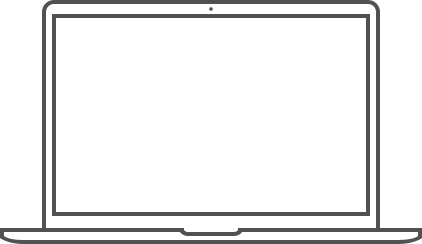
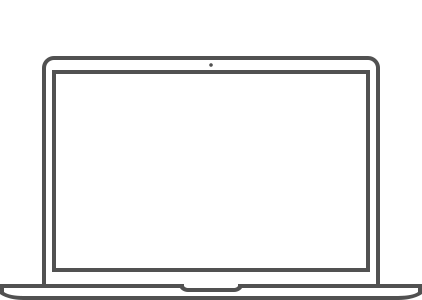
Fixes on the layout. Add Facebook account.

Changed region(s): [[0.0, 0.8607, 1.0, 1.0], [0.0924, 0.0, 0.9242, 0.2582]]

diff --git a/index.html b/index.html
@@ -116,71 +116,33 @@
             </div>
         </div>
 
-        <div class="content-section-a">
-
-            <div class="container">
-
-                <div class="row">
-                    <div class="col-lg-5 col-sm-6">
-                        <hr class="section-heading-spacer">
-                        <div class="clearfix"></div>
-                        <h2 class="section-heading"> 1. Scan networks and generates keys</h2>
-                        <p class="lead"> It simply scans all networks around you and checks if it can generate possible keys for the networks.</p>
-                    </div>
-                    <div class="col-lg-5 col-lg-offset-7 col-sm-6">
-                        <img class="img-responsive" style="max-width:60%;" src="img/scan.png" alt="">
-                    </div>
-                </div>
-
+        <div class="row">
+            <div class="col-md-6">
+                <hr class="section-heading-spacer">
+                <div class="clearfix"></div>
+                <h2 class="section-heading"> 1. Scan networks and generates keys</h2>
+                <p class="lead"> It simply scans all networks around you and checks if it can generate possible keys for the networks.</p>
             </div>
-            <!-- /.container -->
-
+            <div class="col-md-6">
+               <img class="img-responsive center-block" style="max-width:50%;" src="img/scan.png" alt="">
+            </div>
         </div>
+  
         <br>
-        <div class="content-section-a">
 
-            <div class="container">
 
-                <div class="row">
-                    <div class="col-lg-5 col-sm-6">
-                        <hr class="section-heading-spacer">
-                        <div class="clearfix"></div>
-                        <h2 class="section-heading"> 2. Test keys</h2>
-                        <p class="lead"> Once you have the generated keys, one or more, you can test them and luckly connect to the network.</p>
-                    </div>
-                    <div class="col-lg-5 col-lg-offset-7 col-sm-6">
-                        <img class="img-responsive" style="max-width:60%;" src="img/keys.png" alt="">
-                    </div>
-                </div>
-
+        <div class="row">
+            <div class="col-md-6">
+                <hr class="section-heading-spacer">
+                <div class="clearfix"></div>
+                <h2 class="section-heading"> 2. Test keys</h2>
+                <p class="lead"> Once you have the generated keys, one or more, you can test them and luckly connect to the network.</p>
             </div>
-            <!-- /.container -->
-
+            <div class="col-md-6">
+                <img class="img-responsive center-block" style="max-width:50%;" src="img/keys.png" alt="">
+            </div>
         </div>
-        <!-- /.content-section-a -->
-
-        <!--<div class="content-section-b">
-
-            <div class="container">
-
-                <div class="row">
-                    <div class="col-lg-5 col-lg-offset-1 col-sm-push-6  col-sm-6">
-                        <hr class="section-heading-spacer">
-                        <div class="clearfix"></div>
-                        <h2 class="section-heading"> 2. Test keys</h2>
-                        <p class="lead"> Then, you can test the keys generated and luckly connect to the network.</p>
-                    </div>
-                    <div class="col-lg-5 col-sm-pull-5  col-sm-6">
-                        <img class="img-responsive" style="max-width:60%;" src="img/keys.png" alt="">
-                    </div>
-                </div>
-
-            </div>
-
-        </div> -->
-        <!-- /.content-section-b -->
     </section>
-
 
     <!-- Download Section -->
     <section id="download" class="content-section text-center bg-light-gray">
@@ -190,21 +152,23 @@
                     <h2>Download RouterKeygen</h2>
                     <!--<p>You can download RouterKeygen for free.</p> -->
                     <br>
-                    <div class="row text-center">
-                        <div class="col-md-6  col-sm-6">
-                            <div>
-                                <img class="img-responsive center-block" style="max-width:20%;" src="img/android.png" alt="">
-                            </div>
+                    <div class="row">
+                        <div class="col-md-6">
+                            
+                                <img class="img-responsive center-block" style="max-width:60%;" src="img/android.png" alt="">
+                            
                             <br>
                             <br>
                             <a href="https://github.com/routerkeygen/routerkeygenAndroid/releases/download/v3.9.1/routerkeygen-3-9-1.apk" class="btn btn-default btn-lg">Android</a>
                         </div>
-                        <div class="col-md-6  col-sm-6">
-                            <div>
-                                <img class="img-responsive center-block" style="max-width:65%;" src="img/mac.png" alt="">
-                            </div>
+                       
+                        <div class="col-md-6">
+                          
+                                <img class="img-responsive center-block" style="max-width:60%;" src="img/mac.png" alt="">
+                            
                             <br>
                             <br>
+                         
                             <a href="https://github.com/routerkeygen/routerkeygenPC/releases/download/v1.0.0/routerkeygen-1.0.0.exe" class="btn btn-default btn-lg">Windows</a>
                         </div>
                     </div>
@@ -226,9 +190,12 @@
             <div class="col-lg-8 col-lg-offset-2">
                 <h2>Contact RouterKeygen</h2>
                 <p>Feel free to email us to provide some feedback and give us suggestions!</p>
-                <p><a href="mailto:exobel@gmail.com">exobel@gmail.com</a>
+                <p><a class="email" href="mailto:exobel@gmail.com">exobel@gmail.com</a>
                 </p>
                 <ul class="list-inline banner-social-buttons">
+                     <li>
+                        <a href="https://www.facebook.com/pages/RouterKeygen/1519691051613532" target="_blank" class="btn btn-default btn-lg"><i class="fa fa-facebook fa-fw"></i> <span class="network-name">Facebook</span></a>
+                    </li>
                     <li>
                         <a href="https://twitter.com/routerkeygen" target="_blank" class="btn btn-default btn-lg"><i class="fa fa-twitter fa-fw"></i> <span class="network-name">Twitter</span></a>
                     </li>

diff --git a/css/style.css b/css/style.css
@@ -182,9 +182,9 @@ a:focus {
         font-size: 36px;
     }
 
-    .intro .intro-body .intro-text {
+    .intro .intro-body .intro-text -
         font-size: 25px;
-    }
+    }    
 }
 
 .btn-circle {
@@ -263,13 +263,13 @@ a:focus {
 }
 
 .content-section {
-    padding-top: 50px
-    padding-bottom: 50px;
+    padding-top: 115px;
+    padding-bottom: 115px;
 }
 
 .download-section {
     width: 100%;
-    padding: 25px 0px 125px 0px;
+    padding: 25px 0px 25px 0px;
     color: #222;
     -webkit-background-size: cover;
     -moz-background-size: cover;
@@ -285,11 +285,12 @@ a:focus {
 
 @media(min-width:767px) {
     .content-section {
-        padding-top: 125px; 
+        padding-top: 115px; 
+        padding-bottom: 115px;
     }
 
     .download-section {
-        padding: 25px 0px 125px 0px;
+        padding: 25px 0px 25px 0px;
     }
 
     #map {
@@ -378,7 +379,7 @@ body {
 .section-heading {
     text-align: left;
     margin-bottom: 15px;
-    font-size: 18px;
+    font-size: 20px;
 }
 
 .section-heading-spacer {
@@ -388,7 +389,7 @@ body {
 }
 
 .lead {
-    font-size: 15px;
+    font-size: 18px;
     font-weight: 400;
     text-align: left;
 }
@@ -412,4 +413,8 @@ footer span.copyright {
 .contact {
     padding-top: 200px;
     padding-bottom: 200px; 
+}
+
+.email{
+    color: #4A7BC4;
 }
